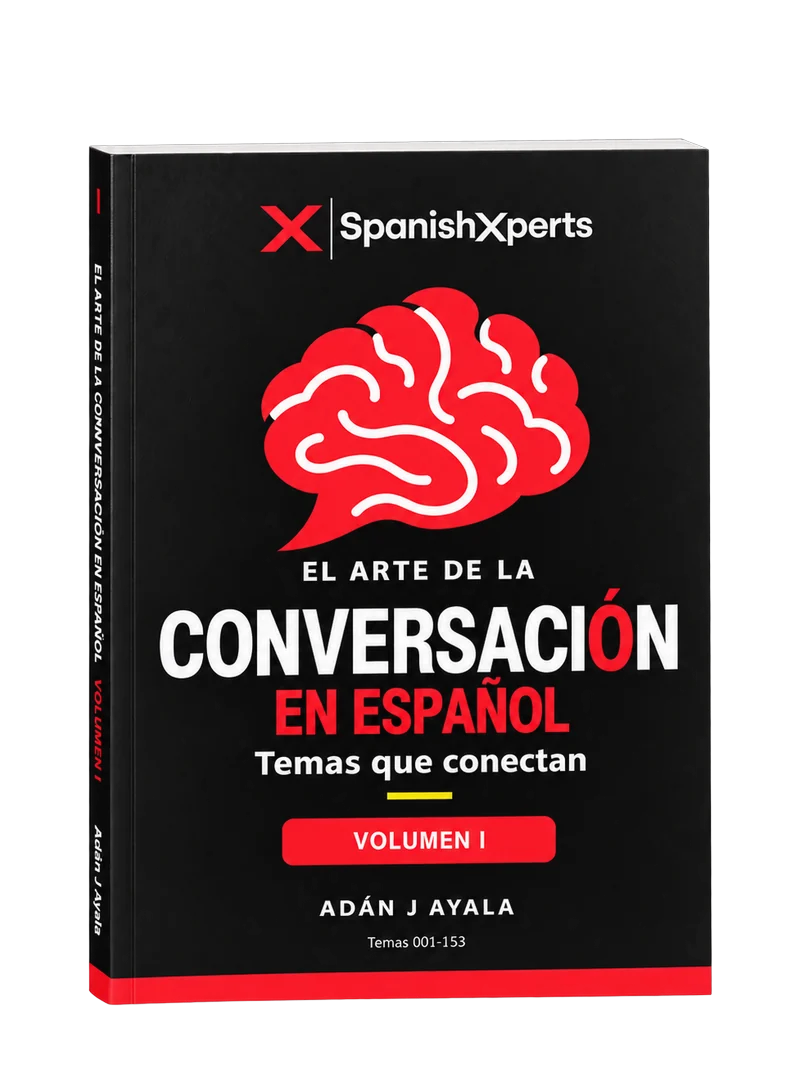
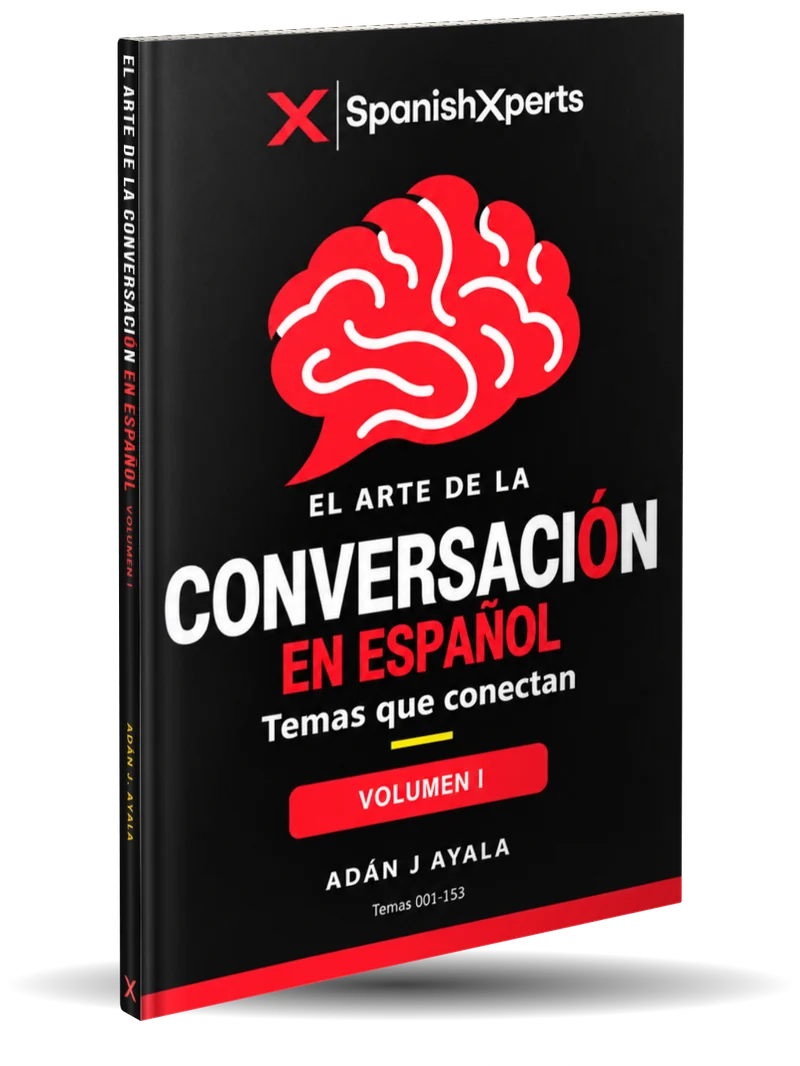
Homepage books: unify all covers to one 3/4 mockup template (same angle, size, shape, shadow)

diff --git a/index.html b/index.html
@@ -460,25 +460,25 @@ function hh(){document.documentElement.style.setProperty("--sxh-h",h.offsetHeigh
     <div class="sx-books-head"><p class="sx-kicker">By Adán J. Ayala</p><h2 class="sx-h2">Books I&rsquo;ve written</h2><p class="sx-p sx-books-note">I use these books as classroom materials in my courses, and you&rsquo;ll also be able to get them on their own, no course required.</p></div>
     <ul class="sx-books-rail" id="sx-books-rail" aria-label="Books by Adán J. Ayala">
       <li class="sx-book">
-        <span class="sx-book-cover"><img src="assets/books/mockup_with_streaming.webp" alt="How to Learn Spanish With Streaming by Adán J. Ayala, paperback" width="800" height="1066" loading="lazy" decoding="async"></span>
+        <span class="sx-book-cover"><img src="assets/books/mockup_with_streaming.webp?v=20261005" alt="How to Learn Spanish With Streaming by Adán J. Ayala, paperback" width="800" height="1066" loading="lazy" decoding="async"></span>
         <span class="sx-book-label sx-soon">Coming soon</span>
         <h3>How to Learn Spanish With Streaming <span>(2026 edition)</span></h3>
         <p>The new edition. The principles remain; the ecosystem has expanded, from streaming platforms to AI.</p>
       </li>
       <li class="sx-book">
-        <span class="sx-book-cover"><img src="assets/books/mockup_arte_conversacion_vol1.webp" alt="El Arte de la Conversación en Español, Temas que conectan, Volumen I by Adán J. Ayala, paperback" width="800" height="1066" loading="lazy" decoding="async"></span>
+        <span class="sx-book-cover"><img src="assets/books/mockup_arte_conversacion_vol1.webp?v=20261005" alt="El Arte de la Conversación en Español, Temas que conectan, Volumen I by Adán J. Ayala, paperback" width="800" height="1066" loading="lazy" decoding="async"></span>
         <span class="sx-book-label sx-soon">Coming soon</span>
         <h3 lang="es">El Arte de la Conversación en Español: <span>Temas que conectan &middot; Volumen I</span></h3>
         <p>Conversation topics to get you talking in Spanish and connecting with people. Temas 001-153.</p>
       </li>
       <li class="sx-book">
-        <span class="sx-book-cover"><img src="assets/books/mockup_arte_conversacion_vol2.webp" alt="El Arte de la Conversación en Español, Temas que conectan, Volumen II by Adán J. Ayala, paperback" width="800" height="1066" loading="lazy" decoding="async"></span>
+        <span class="sx-book-cover"><img src="assets/books/mockup_arte_conversacion_vol2.webp?v=20261005" alt="El Arte de la Conversación en Español, Temas que conectan, Volumen II by Adán J. Ayala, paperback" width="800" height="1066" loading="lazy" decoding="async"></span>
         <span class="sx-book-label sx-soon">Coming soon</span>
         <h3 lang="es">El Arte de la Conversación en Español: <span>Temas que conectan &middot; Volumen II</span></h3>
         <p>Conversation topics to get you talking in Spanish and connecting with people. Temas 154-300.</p>
       </li>
       <li class="sx-book">
-        <span class="sx-book-cover"><img src="assets/books/mockup_netflix_2018.webp" alt="How to Learn Spanish Using Netflix by Adán J. Ayala, paperback (out of print)" width="800" height="1066" loading="lazy" decoding="async"></span>
+        <span class="sx-book-cover"><img src="assets/books/mockup_netflix_2018.webp?v=20261005" alt="How to Learn Spanish Using Netflix by Adán J. Ayala, paperback (out of print)" width="800" height="1066" loading="lazy" decoding="async"></span>
         <span class="sx-book-label">Out of print</span>
         <h3>How to Learn Spanish Using Netflix <span>(2018)</span></h3>
         <p>The original immersion guide. For several months, one of the top three titles in its Amazon category.</p>
